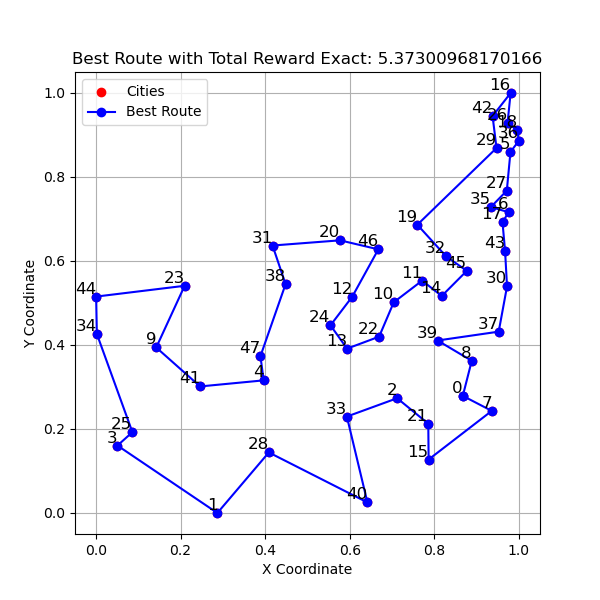
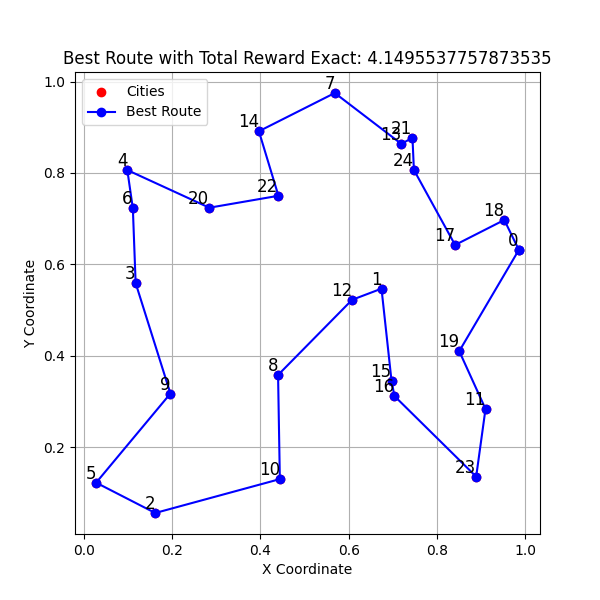
推論の形成を論文に合わせて変更

diff --git a/policy_reinforce-b_transformer_linear_random/inference.py b/policy_reinforce-b_transformer_linear_random/inference.py
@@ -61,8 +61,8 @@ def extract_best_orders(random_history, greedy_history):
     # randomのエピソードとインデックス番号からgreedyのベストエピソードを取得
     greedy_episode = greedy_history[best_episode]
     greedy_tensor = torch.stack(greedy_episode["visit_orders"]).T
-    greedy_order = greedy_tensor[best_idx].cpu().tolist()  # Greedyの訪問順序を取得
-    greedy_reward = greedy_episode["total_reward"][best_idx].item()  # MPS -> CPU & float化
+    greedy_order = greedy_tensor.cpu().tolist()[0]  # Greedyの訪問順序を取得
+    greedy_reward = greedy_episode["total_reward"].item()  # MPS -> CPU & float化
 
     return {
         "random_min_reward": random_min_reward,
@@ -93,6 +93,13 @@ def execute_exact_model(coords):
     return exact_model.total_distance, exact_model.visit_order
 
 def load_input_data(fixed, num_cities):
+    """
+    入力データを読み込み関数。
+    :param fixed: 座標が固定されているかどうか
+    :param num_cities: 都市の数
+    :return: 座標データ
+    """
+    # 座標が固定されていない場合は None を返す
     if not fixed:
         return None
     # 固定座標のデータを読み込む
@@ -113,7 +120,7 @@ def create_env(fixed_coords, batch_size, num_cities):
         fixed_coords=fixed_coords
     )
 
-def run_inference_episode(env, agent, baseline, n_cities, batch_size):
+def run_inference_episode(baseline_env, agent, baseline, n_cities, batch_size):
     """
     1エピソードの推論を実行する。
     :param env: TSPEnvインスタンス
@@ -123,15 +130,18 @@ def run_inference_episode(env, agent, baseline, n_cities, batch_size):
     :param batch_size: バッチサイズ
     :return: 推論結果（報酬、訪問順序）
     """
+    print("run_inference_episode")
     # 1. 環境の座標を生成
-    env.generate_coords()  # 都市の座標を生成
+    baseline_env.generate_coords("baseline")  # 都市の座標を生成
     # 2. Baseline用の環境（同じ座標を固定）
-    baseline_env = create_env(
-        fixed_coords=env.coords.copy(),
+    env = create_env(
+        fixed_coords=baseline_env.coords.copy(),
         batch_size=batch_size,
         num_cities=n_cities
     )
-    baseline_env.generate_coords()  # 固定された座標を使用して環境を初期化
+    env.generate_coords("random")  # 固定された座標を使用して環境を初期化
+
+    print(f"env.coords: {env.coords.shape}, baseline_env.coords: {baseline_env.coords.shape}")
 
     # 1. AgentとBaselineの環境をリセット
     data, visited_cities = env.reset()
@@ -171,7 +181,8 @@ def run_inference_episode(env, agent, baseline, n_cities, batch_size):
         },
         "greedy": {
             "total_reward": -1 * greedy_reward,
-            "visit_orders": greedy_visit_orders
+            "visit_orders": greedy_visit_orders,
+            "coords": baseline_env.coords
         }
     }
 
@@ -202,7 +213,8 @@ def plot_results(info, exact_reward, exact_best_order, random_history, greedy_hi
 
 def main(model_path='save/model.pth', episodes=100, plot=True, fixed=True):
     num_cities = environment["num_cities"]
-    batch_size = inference["batch_size"]
+    random_batch_size = inference["random_batch_size"]
+    baseline_batch_size = inference["baseline_batch_size"]
 
     print(f"推論実行：都市数 {num_cities}, 固定座標 {fixed}")
 
@@ -225,7 +237,7 @@ def main(model_path='save/model.pth', episodes=100, plot=True, fixed=True):
     )
 
     # 環境の生成
-    env = create_env(input_data, batch_size, num_cities)
+    baseline_env = create_env(input_data, baseline_batch_size, num_cities)
 
     # 保存済みモデルをロード
     agent.load_model(model_path)
@@ -239,7 +251,7 @@ def main(model_path='save/model.pth', episodes=100, plot=True, fixed=True):
     
     for episode in range(episodes):
         print(f"episode: {episode}")
-        result = run_inference_episode(env, agent, baseline, num_cities, batch_size)
+        result = run_inference_episode(baseline_env, agent, baseline, num_cities, random_batch_size)
         # ランダムサンプリングの結果を保存
         random_history.append({
             "total_reward": result["random"]["total_reward"],
@@ -250,10 +262,12 @@ def main(model_path='save/model.pth', episodes=100, plot=True, fixed=True):
         # greedyサンプリングの結果を保存
         greedy_history.append({
             "total_reward": result["greedy"]["total_reward"],
-            "visit_orders": result["greedy"]["visit_orders"]
+            "visit_orders": result["greedy"]["visit_orders"],
+            "coords": result["greedy"]["coords"]
         })
 
     # print(f"reward_history_random: {random_history}")
+    # print(f"reward_history_greedy: {greedy_history}")
     
     # ランダムサンプリングの最小値とその時の貪欲法の値を求める
     best_info = extract_best_orders(random_history, greedy_history)

diff --git a/policy_reinforce-b_transformer_linear_random/env/env.py b/policy_reinforce-b_transformer_linear_random/env/env.py
@@ -23,20 +23,28 @@ class TSPEnv:
         self._coords = None
         self.device = get_device()
     
-    def generate_coords(self):
+    def generate_coords(self, mode='train'):
         """
         都市の座標を生成
+        - 固定された座標が指定されている場合はそれを使用
+        - そうでない場合はランダムに生成
         """
-        if self.fixed_coords is not None:
-            coords = np.array(self.fixed_coords, dtype=np.float32)
-            if coords.shape == (1, self.n_cities, self.coord_dim):
-                # (1, 25, 2) → repeat
-                self._coords = np.repeat(coords, self.batch_size, axis=0)
+        if mode == "baseline":
+            if self.fixed_coords is not None:
+                self._coords = np.array(self.fixed_coords, dtype=np.float32)
             else:
-                self._coords = coords
-        else:
+                self._coords = np.random.rand(self.batch_size, self.n_cities, self.coord_dim) * self.data_coord_max
+        
+        elif mode == "random":
+            if self.fixed_coords is None:
+                raise ValueError("random モードでは fixed_coords が必要です。")
+            coords = np.array(self.fixed_coords, dtype=np.float32)
+            self._coords = np.repeat(coords, self.batch_size, axis=0)
+        
+        elif mode == "train":
+            # バッチサイズに応じてランダムな座標を生成
             self._coords = np.random.rand(self.batch_size, self.n_cities, self.coord_dim) * self.data_coord_max
-    
+            
     @property
     def coords(self):
         """

diff --git a/policy_reinforce-b_transformer_linear_random/config.py b/policy_reinforce-b_transformer_linear_random/config.py
@@ -21,7 +21,7 @@ training = {
 # 環境設定
 environment = {
     "problem": "tsp",
-    "num_cities": 48,  # 問題に出現する都市の数
+    "num_cities": 25,  # 問題に出現する都市の数
     "normalize": True  # 座標を0〜1にスケーリングするか
 }
 
@@ -35,8 +35,9 @@ checkpoint = {
 # 推論設定
 inference = {
     "model_path": "save/model.pth",
-    "batch_size": 1024,
-    "episodes": 10,
+    "random_batch_size": 1280,  # 本番は1280に固定
+    "baseline_batch_size": 1,  # baselineのバッチサイズは常に1
+    "episodes": 2,  # fixed=Trueの時は1エピソードのみ
     "plot": True,
-    "fixed": True,  # 固定座標での推論を行うか
+    "fixed": False,  # 固定座標での推論を行うか
 }
